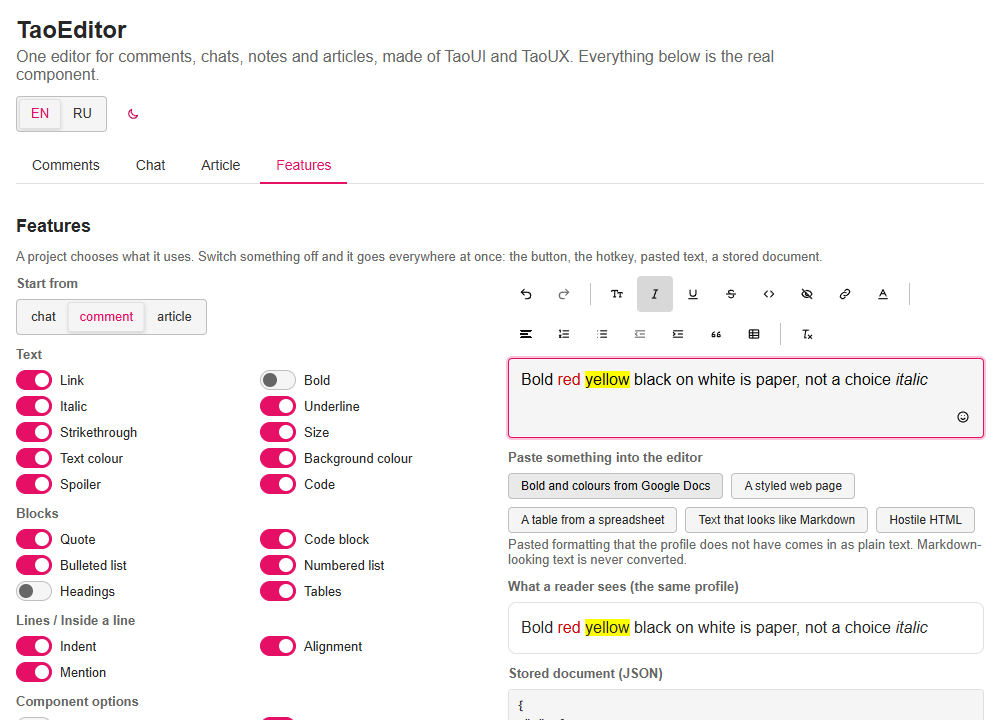
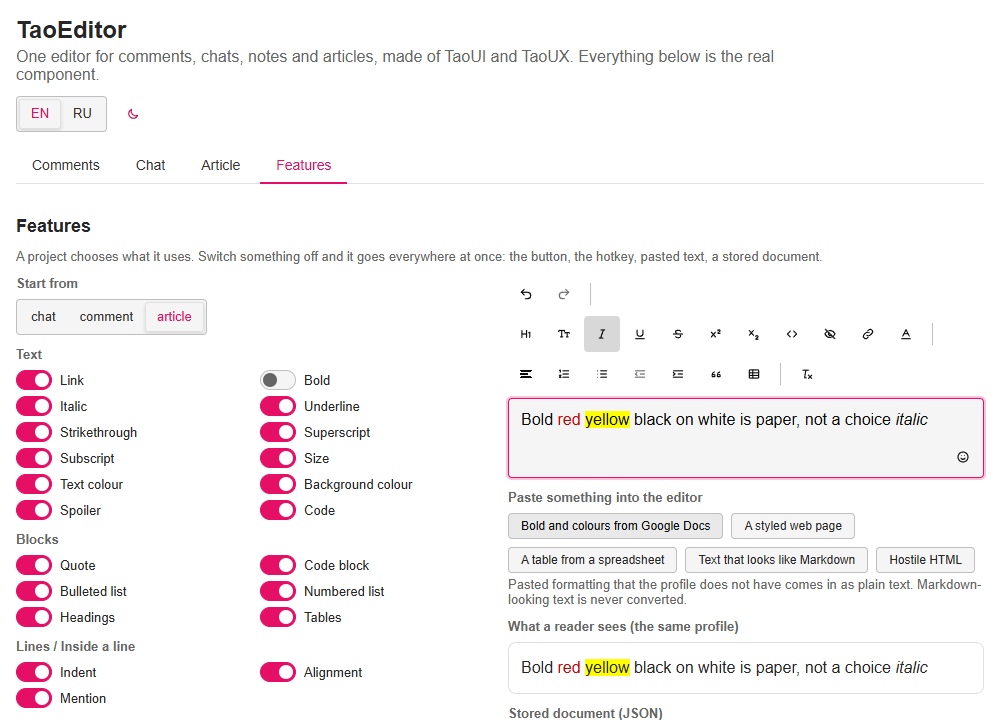
Leaner ready profiles: comment without colours and subscript, chat also without superscript

diff --git a/tests/vue/menus.test.ts b/tests/vue/menus.test.ts
@@ -36,7 +36,7 @@ const inPopup = (host: HTMLElement, cls: string): HTMLButtonElement[] => [...hos
 
 describe('the toolbar shows only what the profile has', () => {
     it('a made profile: no Bold, no Align, no Quote; the rest stays', async () => {
-        const profile = withoutFeatures('comment', { marks: ['bold'], nodes: ['blockquote'], features: ['align'] });
+        const profile = withoutFeatures('article', { marks: ['bold'], nodes: ['blockquote'], features: ['align'] });
         const m = mount({ profile });
         await nextTick();
         const list = names(m.host);
@@ -47,7 +47,7 @@ describe('the toolbar shows only what the profile has', () => {
     });
 
     it('the hotkey of a mark that is out does nothing in the component either', async () => {
-        const m = mount({ profile: withoutFeatures('comment', { marks: ['bold'] }) });
+        const m = mount({ profile: withoutFeatures('article', { marks: ['bold'] }) });
         await nextTick();
         type(m.engine(), 'abc');
         selectAll(m.engine());
@@ -56,7 +56,7 @@ describe('the toolbar shows only what the profile has', () => {
     });
 
     it('size, colours, lists and indents go when their features go', async () => {
-        const profile = withoutFeatures('comment', { marks: ['size', 'color', 'background'], nodes: ['bulletList', 'orderedList'], features: ['indent'] });
+        const profile = withoutFeatures('article', { marks: ['size', 'color', 'background'], nodes: ['bulletList', 'orderedList'], features: ['indent'] });
         const m = mount({ profile });
         await nextTick();
         const list = names(m.host);
@@ -65,7 +65,7 @@ describe('the toolbar shows only what the profile has', () => {
     });
 
     it('with only one of the colours there is one section', async () => {
-        const m = mount({ profile: withoutFeatures('comment', { marks: ['background'] }) });
+        const m = mount({ profile: withoutFeatures('article', { marks: ['background'] }) });
         await nextTick();
         button(m.host, 'Text and background color').click();
         await nextTick();
@@ -97,7 +97,7 @@ describe('the toolbar shows only what the profile has', () => {
 
 describe('the alignment popup', () => {
     it('opens under its button, offers four, aligns the paragraph and closes', async () => {
-        const m = mount({ profile: 'comment' });
+        const m = mount({ profile: 'article' });
         await nextTick();
         type(m.engine(), 'abc');
         expect(m.host.querySelector('.tao-editor-align')).toBeNull();
@@ -124,7 +124,7 @@ describe('the alignment popup', () => {
     });
 
     it('one popup at a time, and a press outside or Escape in the text closes it', async () => {
-        const m = mount({ profile: 'comment', emoji: true });
+        const m = mount({ profile: 'article', emoji: true });
         await nextTick();
         button(m.host, 'Align').click();
         await nextTick();
@@ -156,7 +156,7 @@ describe('the alignment popup', () => {
     });
 
     it('a press on its own button or inside it does not close it', async () => {
-        const m = mount({ profile: 'comment' });
+        const m = mount({ profile: 'article' });
         await nextTick();
         button(m.host, 'Align').click();
         await nextTick();
@@ -169,7 +169,7 @@ describe('the alignment popup', () => {
 
 describe('the size popup', () => {
     it('offers small, normal, large, huge; a choice sizes the selection; normal takes it off', async () => {
-        const m = mount({ profile: 'comment' });
+        const m = mount({ profile: 'article' });
         await nextTick();
         type(m.engine(), 'abc');
         selectAll(m.engine());

diff --git a/tests/editor/color.test.ts b/tests/editor/color.test.ts
@@ -13,7 +13,7 @@ const marks = (ed: EditorHandle) => ed.getDoc().content[0].content?.map((n) => [
 
 describe('setColor and colorOf', () => {
     it('colours the selection, replaces a colour, takes it off, and keeps the text', () => {
-        const ed = mount({ profile: 'chat' });
+        const ed = mount({ profile: 'article' });
         type(ed, 'abcd');
         select(ed, 2, 4);
         expect(ed.setColor('color', '#ff0000')).toBe(true);
@@ -28,7 +28,7 @@ describe('setColor and colorOf', () => {
     });
 
     it('text colour and background are independent', () => {
-        const ed = mount({ profile: 'chat' });
+        const ed = mount({ profile: 'article' });
         type(ed, 'ab');
         select(ed, 1, 3);
         ed.setColor('color', '#ff0000');
@@ -39,7 +39,7 @@ describe('setColor and colorOf', () => {
     });
 
     it('refuses a colour that is not one', () => {
-        const ed = mount({ profile: 'chat' });
+        const ed = mount({ profile: 'article' });
         type(ed, 'ab');
         select(ed, 1, 3);
         expect(ed.setColor('color', 'red')).toBe(false);
@@ -48,7 +48,7 @@ describe('setColor and colorOf', () => {
     });
 
     it('with a caret it colours what is typed next, and only that', () => {
-        const ed = mount({ profile: 'chat' });
+        const ed = mount({ profile: 'article' });
         type(ed, 'a');
         ed.setColor('color', '#ff0000');
         expect(ed.colorOf('color')).toBe('#ff0000');
@@ -59,7 +59,7 @@ describe('setColor and colorOf', () => {
     });
 
     it('colorOf reads the first coloured run of a selection', () => {
-        const ed = mount({ profile: 'chat' });
+        const ed = mount({ profile: 'article' });
         type(ed, 'abc');
         select(ed, 2, 3);
         ed.setColor('background', '#00ff00');
@@ -69,7 +69,7 @@ describe('setColor and colorOf', () => {
     });
 
     it('code stays free of colours', () => {
-        const ed = mount({ profile: 'chat' });
+        const ed = mount({ profile: 'article' });
         type(ed, 'x');
         select(ed, 1, 2);
         ed.setColor('color', '#ff0000');
@@ -80,9 +80,9 @@ describe('setColor and colorOf', () => {
 
 describe('pasted colours', () => {
     const parse = (html: string) => {
-        const schema = createSchema(PROFILES.chat);
+        const schema = createSchema(PROFILES.article);
         const dom = new window.DOMParser().parseFromString(html, 'text/html').body;
-        const { doc, issues } = nodeToDoc(PMParser.fromSchema(schema).parse(dom), PROFILES.chat);
+        const { doc, issues } = nodeToDoc(PMParser.fromSchema(schema).parse(dom), PROFILES.article);
         expect(issues).toEqual([]);
         return doc.content[0].content?.map((n) => [n.text, (n.marks ?? []).map((m) => `${m.type}:${m.attrs?.value}`).join(' ')]);
     };

diff --git a/tests/editor/script.test.ts b/tests/editor/script.test.ts
@@ -16,14 +16,14 @@ describe('superscript and subscript', () => {
 
     it('cannot be both: the normalizer keeps superscript, and code excludes both', () => {
         const both = [{ type: 'subscript' }, { type: 'superscript' }];
-        const doc = normalizeDoc({ v: 1, content: [para({ type: 'text', text: 'x', marks: both })] }, PROFILES.comment).doc;
+        const doc = normalizeDoc({ v: 1, content: [para({ type: 'text', text: 'x', marks: both })] }, PROFILES.article).doc;
         expect(doc.content[0].content![0].marks).toEqual([{ type: 'superscript' }]);
-        const withCode = normalizeDoc({ v: 1, content: [para({ type: 'text', text: 'x', marks: [{ type: 'subscript' }, { type: 'code' }] })] }, PROFILES.comment).doc;
+        const withCode = normalizeDoc({ v: 1, content: [para({ type: 'text', text: 'x', marks: [{ type: 'subscript' }, { type: 'code' }] })] }, PROFILES.article).doc;
         expect(withCode.content[0].content![0].marks).toEqual([{ type: 'code' }]);
     });
 
     it('the keys toggle them, and one replaces the other', () => {
-        const ed = mount({ profile: 'comment' });
+        const ed = mount({ profile: 'article' });
         type(ed, 'abc');
         ed.view.dispatch(ed.view.state.tr.setSelection(TextSelection.create(ed.view.state.doc, 1, 4)));
         press(ed, '.', { ctrlKey: true });
@@ -37,14 +37,14 @@ describe('superscript and subscript', () => {
 
     it('are read from pasted sup, sub and the vertical-align of Docs', () => {
         const dom = new window.DOMParser().parseFromString('<p>x<sup>2</sup> H<span style="vertical-align:sub">2</span>O <span style="vertical-align:super">s</span></p>', 'text/html').body;
-        const { doc, issues } = nodeToDoc(PMParser.fromSchema(createSchema(PROFILES.comment)).parse(dom), PROFILES.comment);
+        const { doc, issues } = nodeToDoc(PMParser.fromSchema(createSchema(PROFILES.article)).parse(dom), PROFILES.article);
         expect(issues).toEqual([]);
         const marks = (doc.content[0].content ?? []).map((n) => (n.marks ?? []).map((m) => m.type).join('+'));
         expect(marks).toEqual(['', 'superscript', '', 'subscript', '', 'superscript']);
     });
 
     it('a profile without them has no mark, no key and pastes them as text', () => {
-        const p = withoutFeatures('comment', { marks: ['superscript', 'subscript'] });
+        const p = withoutFeatures('article', { marks: ['superscript', 'subscript'] });
         const ed = mount({ profile: p });
         expect(ed.schema.marks.superscript).toBeUndefined();
         type(ed, 'abc');

diff --git a/tests/editor/plainpaste.test.ts b/tests/editor/plainpaste.test.ts
@@ -14,12 +14,12 @@ const HTML = '<p><strong>bold</strong> <span style="color:#cc0000">red</span> <a
 
 describe('paste without formatting (Ctrl+Shift+V)', () => {
     it('Ctrl+V keeps what the profile allows; Ctrl+Shift+V takes only the text', () => {
-        const rich = mount({ profile: 'comment' });
+        const rich = mount({ profile: 'article' });
         paste(rich.view.dom, HTML, 'bold red link');
         expect(JSON.stringify(rich.getDoc())).toContain('"bold"');
         expect(JSON.stringify(rich.getDoc())).toContain('#cc0000');
 
-        const plain = mount({ profile: 'comment' });
+        const plain = mount({ profile: 'article' });
         plain.view.dom.dispatchEvent(new KeyboardEvent('keydown', { key: 'v', keyCode: 86, ctrlKey: true, shiftKey: true, bubbles: true }));
         paste(plain.view.dom, HTML, 'bold red link');
         const json = JSON.stringify(plain.getDoc());
@@ -28,7 +28,7 @@ describe('paste without formatting (Ctrl+Shift+V)', () => {
     });
 
     it('the text of a pasted table keeps its lines and tabs, with no table in the document', () => {
-        const ed = mount({ profile: 'comment' });
+        const ed = mount({ profile: 'article' });
         ed.view.dom.dispatchEvent(new KeyboardEvent('keydown', { key: 'v', keyCode: 86, ctrlKey: true, shiftKey: true, bubbles: true }));
         paste(ed.view.dom, '<table><tr><td>a</td><td>b</td></tr></table>', 'a\tb\nc\td');
         expect(JSON.stringify(ed.getDoc())).not.toContain('table');

diff --git a/src/core/schema.ts b/src/core/schema.ts
@@ -162,9 +162,14 @@ const CHAT_NODES = ['paragraph', 'text', 'hardBreak', 'mention', 'blockquote', '
 const COMMENT_NODES = [...CHAT_NODES, 'bulletList', 'orderedList', 'listItem', 'table', ...TABLE_PARTS] as const;
 const ARTICLE_NODES = [...COMMENT_NODES, 'heading'] as const;
 
+// Ready profiles are a starting point (a project can take marks away or define its own). Colours and subscript are for articles;
+// a comment keeps the superscript, a chat does not (decision of the user, 2026-11-07).
+const COMMENT_MARKS = MARK_ORDER.filter((m) => m !== 'color' && m !== 'background' && m !== 'subscript');
+const CHAT_MARKS = COMMENT_MARKS.filter((m) => m !== 'superscript');
+
 export const PROFILES = {
-    chat: { name: 'chat', nodes: CHAT_NODES, marks: MARK_ORDER, features: [] },
-    comment: { name: 'comment', nodes: COMMENT_NODES, marks: MARK_ORDER, features: ['indent', 'align'] },
+    chat: { name: 'chat', nodes: CHAT_NODES, marks: CHAT_MARKS, features: [] },
+    comment: { name: 'comment', nodes: COMMENT_NODES, marks: COMMENT_MARKS, features: ['indent', 'align'] },
     article: { name: 'article', nodes: ARTICLE_NODES, marks: MARK_ORDER, features: ['indent', 'align'], spaced: true },
 } as const satisfies Record<string, Profile>;
 

diff --git a/demo/src/samples.ts b/demo/src/samples.ts
@@ -14,7 +14,7 @@ const doc = (...content: DocNode[]): Doc => ({ v: 1, content });
 /** Two comments to start the list with. */
 export const SEED_COMMENTS: { id: number; author: string; doc: Doc }[] = [
     { id: 1, author: 'Ann Lee', doc: doc(p(t('Looks great! The '), t('spoiler', { type: 'spoiler' }), t(' mark is hidden until you click it, and '), mention('u3', 'Bob Stone'), t(' can read it all the same.'))) },
-    { id: 2, author: 'Andy Park', doc: doc(p(t('Try '), t('bold', bold), t(', '), t('colour', color('#e06666')), t(' and '), t('a highlight', background('#fff2cc'), color('#7f6000')), t(' with the toolbar.'))) },
+    { id: 2, author: 'Andy Park', doc: doc(p(t('Try '), t('bold', bold), t(', '), t('italic', { type: 'italic' }), t(' and x'), t('2', { type: 'superscript' }), t(' with the toolbar.'))) },
 ];
 
 /** A page of an article: headings, a list, a quote, code, an indent, alignment, sizes, colours. */

diff --git a/tests/vue/colors.test.ts b/tests/vue/colors.test.ts
@@ -19,7 +19,7 @@ function mount(props: Record<string, unknown> = {}) {
     const comp = ref<{ engine: () => EditorHandle } | null>(null);
     const host = document.createElement('div');
     document.body.append(host);
-    const app = createApp({ render: () => h(TaoEditor, { ref: comp, modelValue: model.value, 'onUpdate:modelValue': (d: Doc) => (model.value = d), profile: 'chat', ...props }) });
+    const app = createApp({ render: () => h(TaoEditor, { ref: comp, modelValue: model.value, 'onUpdate:modelValue': (d: Doc) => (model.value = d), profile: 'article', ...props }) });
     app.mount(host);
     apps.push(app);
     return { host, model, engine: () => comp.value!.engine() };

diff --git a/tests/vue/toolbar.test.ts b/tests/vue/toolbar.test.ts
@@ -42,7 +42,7 @@ describe('the toolbar follows the profile, in the order of Gmail\'s bar', () => 
         await nextTick();
         expect(names(m.host)).toEqual([
             'Undo', 'Redo',
-            'Text size', 'Bold', 'Italic', 'Underline', 'Strikethrough', 'Superscript', 'Subscript', 'Code', 'Spoiler', 'Link', 'Text and background color',
+            'Text size', 'Bold', 'Italic', 'Underline', 'Strikethrough', 'Superscript', 'Code', 'Spoiler', 'Link',
             'Align', 'Numbered list', 'Bulleted list', 'Decrease indent', 'Increase indent', 'Quote', 'Table',
             'Clear formatting',
         ]);

diff --git a/tests/core/color.test.ts b/tests/core/color.test.ts
@@ -56,7 +56,7 @@ describe('parseColor', () => {
 const text = (value: string, marks?: unknown) => ({ type: 'text', text: value, ...(marks ? { marks } : {}) });
 const wrap = (...content: unknown[]) => ({ v: 1, content });
 const para = (...content: unknown[]) => ({ type: 'paragraph', content });
-const norm = (input: unknown) => normalizeDoc(input, PROFILES.chat);
+const norm = (input: unknown) => normalizeDoc(input, PROFILES.article);
 
 describe('colour marks in the document', () => {
     it('are stored as #rrggbb, whatever form came in, in canonical order between strike and spoiler', () => {

diff --git a/README.ru.md b/README.ru.md
@@ -1,7 +1,7 @@
 # TaoEditor
 
 <p align="center">
-  <img src="https://raw.githubusercontent.com/1337exp/taoeditor/main/docs/media/comments.png" alt="Поле комментария с панелью, черновик с упоминанием, цветами и выделением и список людей, который открывается после @" width="420">
+  <img src="https://raw.githubusercontent.com/1337exp/taoeditor/main/docs/media/comments.png" alt="Поле комментария с панелью, черновик с упоминанием, жирным, курсивом и надстрочным и список людей, который открывается после @" width="420">
   <img src="https://raw.githubusercontent.com/1337exp/taoeditor/main/docs/media/features.png" alt="Страница «Возможности»: проект выключил «Жирный», вставлен кусок из Google Docs, жирный пришёл простым текстом, а цвета остались" width="420">
 </p>
 
@@ -58,7 +58,7 @@ const profile = withoutFeatures('comment', { marks: ['bold'], features: ['align'
 
 - **Свой хранимый документ**: версионное JSON-дерево (`{ v: 1, content: [...] }`). HTML не хранится никогда, и JSON самого движка форматом не является.
 - **Нормализатор — ворота**: на входе недоверенный JSON, на выходе канонический верный документ, исключений не бросает. Неизвестные и запрещённые узлы разворачиваются (текст сохраняется), ссылки идут через один список (`https`/`http`, без логина в адресе), управляющие символы удаляются, вложенность ограничена.
-- **Проект выбирает, чем пользуется.** Готовые профили `chat`, `comment`, `article`; свой делается через `withoutFeatures(...)` или `defineProfile(...)`. Чего профиль не содержит, у того нет кнопки, не работает горячая клавиша, вставленное форматирование с этим приходит простым текстом, а сохранённый документ показывается без него. Опечатка в имени бросает ошибку.
+- **Проект выбирает, чем пользуется.** Готовые профили `chat`, `comment`, `article` (цвета и подстрочный есть у статьи; у комментария есть надстрочный, у чата нет); свой делается через `withoutFeatures(...)` или `defineProfile(...)`. Чего профиль не содержит, у того нет кнопки, не работает горячая клавиша, вставленное форматирование с этим приходит простым текстом, а сохранённый документ показывается без него. Опечатка в имени бросает ошибку.
 - **Панель как у почтового клиента**: отмена и повтор, жирный, курсив, подчёркнутый, зачёркнутый, надстрочный и подстрочный, код, спойлер, ссылка, размер текста, цвет текста и фона (сетка на 80 и поле для любого другого), выравнивание, нумерованный и маркированный списки, цитата, таблицы, отступы, стиль абзаца (обычный текст, заголовки 1 до 3), очистка форматирования. Горячие клавиши Gmail и Docs. Обычная или `floating` над выделением. Кнопки, которые профилю не нужны, не показываются.
 - **Таблицы** (`comment` и `article`; в `chat` их нет): выбор размера в панели, затем меню для таблицы, в которой стоит курсор (строки и столбцы выше, ниже, слева, справа, удаление; строка заголовка; удалить таблицу). Tab и Shift+Tab идут по ячейкам и в крайних отпускают, так что клавиатура не застревает. Таблица это простой прямоугольник: без объединённых ячеек (вставленное объединение приходит одиночными ячейками), не больше 50 строк на 20 столбцов, без таблицы в таблице. Профиль без таблиц показывает вставленную таблицу текстом.
 - **Ничего не превращается за спиной.** Набранное и вставленное остаётся тем, чем было: текст, похожий на Markdown, остаётся текстом. Форматирование есть только если его применили явно или оно пришло настоящим форматированием во вставленном HTML (куски из Google Docs, Word и Gmail читаются, их чёрные чернила и белая бумага нет).

diff --git a/README.md b/README.md
@@ -1,7 +1,7 @@
 # TaoEditor
 
 <p align="center">
-  <img src="https://raw.githubusercontent.com/1337exp/taoeditor/main/docs/media/comments.png" alt="The comment composer with its toolbar, a draft with a mention, colours and a highlight, and the list of people that opens after @" width="420">
+  <img src="https://raw.githubusercontent.com/1337exp/taoeditor/main/docs/media/comments.png" alt="The comment composer with its toolbar, a draft with a mention, bold, italic and a superscript, and the list of people that opens after @" width="420">
   <img src="https://raw.githubusercontent.com/1337exp/taoeditor/main/docs/media/features.png" alt="The Features page: a project switched Bold off, a Google Docs run was pasted, the bold came in as plain text and the colours stayed" width="420">
 </p>
 
@@ -58,7 +58,7 @@ On a server (previews, e-mails, search) use `@1337exp/taoeditor/core`: `normaliz
 
 - **Own stored document**: a versioned JSON tree (`{ v: 1, content: [...] }`). No HTML is ever stored, and the engine's own JSON is never the format.
 - **A normalizer is the gate**: untrusted JSON in, a canonical valid document out, never throws. Unknown or forbidden nodes are unwrapped (the text survives), links go through one allowlist (`https`/`http`, no credentials), control characters are stripped, nesting is capped.
-- **Choose what the project uses.** Ready profiles `chat`, `comment`, `article`; make your own with `withoutFeatures(...)` or `defineProfile(...)`. What a profile leaves out has no button, its hotkey does nothing, pasted formatting that has it comes in as plain text, and a stored document is shown without it. A typo in a name throws.
+- **Choose what the project uses.** Ready profiles `chat`, `comment`, `article` (colours and subscript are for the article; a comment has the superscript, a chat does not); make your own with `withoutFeatures(...)` or `defineProfile(...)`. What a profile leaves out has no button, its hotkey does nothing, pasted formatting that has it comes in as plain text, and a stored document is shown without it. A typo in a name throws.
 - **The bar of a mail client**: undo and redo, bold, italic, underline, strikethrough, superscript and subscript, code, spoiler, link, text size, text and background colour (a grid of 80 and a field for any other), alignment, numbered and bulleted lists, quote, tables, indents, paragraph style (normal text, Heading 1 to 3), clear formatting. Gmail and Docs hotkeys. Fixed or `floating` over the selection. The buttons a profile cannot use are not shown.
 - **Tables** (`comment` and `article`; `chat` has none): a size picker in the toolbar, then a menu for the table the caret is in (rows and columns above, below, before, after, delete; a header row; delete the table). Tab and Shift+Tab walk the cells and leave at the ends, so the keyboard is never trapped. A table is a plain rectangle: no merged cells (a pasted merge comes in as single cells), at most 50 rows by 20 columns, no table inside a table. A profile without tables shows a pasted table as text.
 - **Nothing is converted behind your back.** What is typed or pasted stays what it was: text that looks like Markdown stays text. Formatting exists only when it was applied explicitly or came as real formatting in the pasted HTML (Google Docs, Word and Gmail runs are read, their black ink and white paper are not).

diff --git a/CHANGELOG.md b/CHANGELOG.md
@@ -3,6 +3,7 @@
 ## 0.2.0
 
 - **Superscript and subscript.** Two new marks, `superscript` and `subscript` (Ctrl+. and Ctrl+, as in Docs, buttons in the toolbar, `<sup>` and `<sub>` in the viewer). They exclude each other (one replaces the other; if a stored document has both, superscript stays) and `code`; pasted `sup`, `sub` and `vertical-align` from Docs and Word are read. New labels `superscript` and `subscript` in `TaoEditorLabels`.
+- **The ready profiles are leaner**: `comment` has no text and background colour and no subscript, `chat` also has no superscript; `article` keeps everything. A project can still take marks away or define its own profile (`defineProfile` with the marks it wants).
 - **Tables.** New nodes `table`, `tableRow`, `tableCell` and `tableHeader` in the document (`comment` and `article` have them, `chat` does not; `withoutFeatures(profile, { nodes: ['table'] })` takes the table and its parts away together). A table is a plain rectangle: the normalizer fills a short row with empty cells, cuts it to 50 rows by 20 columns, and keeps tables out of cells, quotes and lists; merged cells and column widths are not in the model. A profile without tables shows the cells as paragraphs.
 - **In the editor** (on `prosemirror-tables` 1.8.5, exact): a table button with a size picker (8 by 6, arrows walk it), and, when the caret is in a table, a menu for rows, columns, the header row and deleting the table. A small button on the cell with the caret opens the same menu next to it (a long table needs no trip to the toolbar). Tab and Shift+Tab walk the cells and fall through at the ends; while editing, a table at the start or the end of the document has an empty guard paragraph next to it so the caret can stand there (easy on a phone); the guard paragraphs are not part of the document: `getDoc`, `change` and `send` leave out one empty paragraph before a first table and one after a last table. `createEditor` gains `insertTable`, `inTable`, `tableCommand`, `canTableCommand`. Pasted tables (Google Docs, Excel, web pages) are read through the schema; in a profile without tables a space is kept between the cells.
 - **Paste without formatting**: Ctrl+Shift+V pastes only the text of the clipboard (the engine does this itself; a test now guards it). No toolbar button, on purpose: Gmail and Docs have none, and a phone has no such keys.
